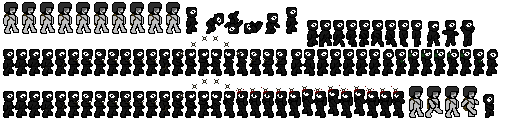
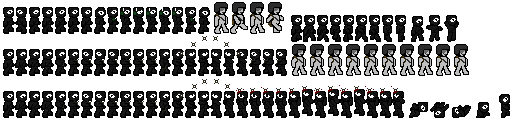
Add in new blocks, fix up wall jumping and allow wall climbing by holding W when wall jumping

Changed region(s): [[0.0, 0.0, 1.0, 0.5938], [0.7812, 0.6562, 1.0, 0.9375]]

diff --git a/core/src/com/nicholasnassar/ninja/systems/InputSystem.java b/core/src/com/nicholasnassar/ninja/systems/InputSystem.java
@@ -28,6 +28,8 @@ public class InputSystem extends IteratingSystem {
 
     private final ComponentMapper<StateComponent> stateMapper;
 
+    private final ComponentMapper<CollidableComponent> collideMapper;
+
     public InputSystem(GameScreen screen) {
         super(Family.all(PhysicsComponent.class, SpeedComponent.class, ControllableComponent.class).get());
 
@@ -46,6 +48,8 @@ public class InputSystem extends IteratingSystem {
         directionMapper = ComponentMapper.getFor(DirectionComponent.class);
 
         stateMapper = ComponentMapper.getFor(StateComponent.class);
+
+        collideMapper = ComponentMapper.getFor(CollidableComponent.class);
     }
 
     @Override
@@ -66,7 +70,11 @@ public class InputSystem extends IteratingSystem {
 
         Vector2 velocity = physics.getVelocity();
 
-        if (physics.getLockVelocityX() <= 0) {
+        CollidableComponent collide = collideMapper.get(entity);
+
+        physics.setLockVelocityX(physics.getLockVelocityX() - deltaTime);
+
+        if (!physics.isXVelocityLocked()) {
             if (Gdx.input.isKeyPressed(ControlManager.MOVE_LEFT)) {
                 velocity.x = -force;
 
@@ -82,8 +90,10 @@ public class InputSystem extends IteratingSystem {
             if (Gdx.input.isKeyPressed(ControlManager.MOVE_LEFT) && Gdx.input.isKeyPressed(ControlManager.MOVE_RIGHT)) {
                 stop = true;
             }
-        } else {
-            physics.setLockVelocityX(physics.getLockVelocityX() - deltaTime);
+        } else if (gravity != null && gravity.isGrounded()) {
+            physics.setLockVelocityX(0);
+        } else if (collide != null && collide.isOnWall()) {
+            physics.setLockVelocityX(0.1f);
         }
 
         if (!levelMapper.has(entity) && Gdx.input.isKeyJustPressed(ControlManager.THROW)) {
@@ -102,7 +112,7 @@ public class InputSystem extends IteratingSystem {
             }
         }
 
-        if (stop && (gravity == null || gravity.isGrounded()) && physics.getLockVelocityX() <= 0) {
+        if (stop && !physics.isXVelocityLocked()) {
             velocity.x = 0;
         }
 
@@ -116,15 +126,17 @@ public class InputSystem extends IteratingSystem {
         JumpComponent jump = jumpMapper.get(entity);
 
         if (gravity != null && jump != null) {
-            if (Gdx.input.isKeyJustPressed(ControlManager.JUMP) && (gravity.isGrounded() || jump.getAvailableJumps() > 0)) {
-                if (state != null && state.getState() == StateComponent.STATE_WALL_SLIDE) {
+            boolean wallSliding = state != null && state.getState() == StateComponent.STATE_WALL_SLIDE;
+
+            if (Gdx.input.isKeyJustPressed(ControlManager.JUMP) && (gravity.isGrounded() || jump.getAvailableJumps() > 0 || wallSliding)) {
+                if (wallSliding && !Gdx.input.isKeyPressed(ControlManager.MOVE_UP)) {
                     if (velocity.x != 0) {
                         if (velocity.x > 0) {
-                            velocity.x = -force * 2f;
+                            velocity.x = -force * 1.5f;
                         } else if (velocity.x < 0) {
-                            velocity.x = force * 2f;
+                            velocity.x = force * 1.5f;
                         }
-                        physics.setLockVelocityX(0.2f);
+                        physics.setLockVelocityX(Float.MAX_VALUE);
                     }
                 }
 

diff --git a/core/src/com/nicholasnassar/ninja/systems/PhysicsSystem.java b/core/src/com/nicholasnassar/ninja/systems/PhysicsSystem.java
@@ -7,7 +7,10 @@ import com.badlogic.ashley.systems.IteratingSystem;
 import com.badlogic.gdx.math.Vector2;
 import com.badlogic.gdx.math.Vector3;
 import com.nicholasnassar.ninja.Level;
-import com.nicholasnassar.ninja.components.*;
+import com.nicholasnassar.ninja.components.CollidableComponent;
+import com.nicholasnassar.ninja.components.DestroyOutsideComponent;
+import com.nicholasnassar.ninja.components.GravityComponent;
+import com.nicholasnassar.ninja.components.PhysicsComponent;
 import com.nicholasnassar.ninja.screens.GameScreen;
 
 public class PhysicsSystem extends IteratingSystem {
@@ -21,8 +24,6 @@ public class PhysicsSystem extends IteratingSystem {
 
     private final ComponentMapper<GravityComponent> gravityMapper;
 
-    private final ComponentMapper<JumpComponent> jumpMapper;
-
     private final ComponentMapper<CollidableComponent> collideMapper;
 
     private final ComponentMapper<DestroyOutsideComponent> destroyMapper;
@@ -35,8 +36,6 @@ public class PhysicsSystem extends IteratingSystem {
         physicsMapper = ComponentMapper.getFor(PhysicsComponent.class);
 
         gravityMapper = ComponentMapper.getFor(GravityComponent.class);
-
-        jumpMapper = ComponentMapper.getFor(JumpComponent.class);
 
         collideMapper = ComponentMapper.getFor(CollidableComponent.class);
 
@@ -131,16 +130,10 @@ public class PhysicsSystem extends IteratingSystem {
 
                                 velocity.x = 0;
 
+                                collide.setOnWall(true);
+
                                 if (velocity.y < 0) {
-                                    collide.setOnWall(true);
-
                                     velocity.y /= 2;
-
-                                    JumpComponent jump = jumpMapper.get(entity);
-
-                                    if (jump != null) {
-                                        jump.setAvailableJumps(jump.getExtraJumps());
-                                    }
                                 }
                             }
 

diff --git a/core/src/com/nicholasnassar/ninja/systems/StateSystem.java b/core/src/com/nicholasnassar/ninja/systems/StateSystem.java
@@ -54,7 +54,7 @@ public class StateSystem extends IteratingSystem {
 
         if (state != null) {
             if (gravity != null && !gravity.isGrounded()) {
-                if (collidable != null && collidable.isOnWall()) {
+                if (collidable != null && collidable.isOnWall() && velocity.y < 0) {
                     state.setState(StateComponent.STATE_WALL_SLIDE);
                 } else {
                     state.setState(StateComponent.STATE_IN_AIR);
@@ -62,7 +62,7 @@ public class StateSystem extends IteratingSystem {
             } else if (velocity.x == 0) {
                 state.setState(StateComponent.STATE_IDLE);
             } else {
-                if (state.getState() != StateComponent.STATE_GROUND_ROLL || state.getElapsedTime() > 0.19999999) {
+                if (state.getState() != StateComponent.STATE_GROUND_ROLL || state.getElapsedTime() > 0.16) {
                     state.setState(StateComponent.STATE_WALKING);
                 }
             }

diff --git a/core/src/com/nicholasnassar/ninja/NinjaAssetManager.java b/core/src/com/nicholasnassar/ninja/NinjaAssetManager.java
@@ -97,15 +97,7 @@ public class NinjaAssetManager {
 
         animations.put(StateComponent.STATE_IN_AIR, Array.with(new Animation(1 / 10f, spriteAnimations.get("player_in_air").split(17, 27)[0])));
 
-        TextureRegion[] split = spriteAnimations.get("player_roll").split(20, 27)[0];
-
-        TextureRegion[] newSplit = new TextureRegion[split.length - 1];
-
-        for (int i = 0; i < newSplit.length; i++) {
-            newSplit[i] = split[i];
-        }
-
-        Animation roll = new Animation(1 / 25f, newSplit);
+        Animation roll = new Animation(1 / 25f, spriteAnimations.get("player_roll").split(22, 16)[0]);
 
         animations.put(StateComponent.STATE_GROUND_ROLL, Array.with(roll));
 

diff --git a/core/src/com/nicholasnassar/ninja/screens/GameScreen.java b/core/src/com/nicholasnassar/ninja/screens/GameScreen.java
@@ -111,15 +111,12 @@ public class GameScreen extends NinjaScreen {
 
         engine = new Engine();
 
-        PhysicsSystem physics = new PhysicsSystem(this);
-        RenderSystem render = new RenderSystem(this, batch, camera);
-
         engine.addSystem(new CameraSystem(this));
-        engine.addSystem(render);
+        engine.addSystem(new RenderSystem(this, batch, camera));
         engine.addSystem(new InputSystem(this));
         engine.addSystem(new AISystem());
         engine.addSystem(new StateSystem());
-        engine.addSystem(physics);
+        engine.addSystem(new PhysicsSystem(this));
 
         spawner = new Spawner(game.getAssetManager(), engine, levelEditor);
 

diff --git a/core/src/com/nicholasnassar/ninja/components/PhysicsComponent.java b/core/src/com/nicholasnassar/ninja/components/PhysicsComponent.java
@@ -83,11 +83,19 @@ public class PhysicsComponent implements Component {
         return sizeScale;
     }
 
+    public boolean isXVelocityLocked() {
+        return lockVelocityX > 0;
+    }
+
     public float getLockVelocityX() {
         return lockVelocityX;
     }
 
     public void setLockVelocityX(float lockVelocityX) {
+        if (lockVelocityX < 0) {
+            lockVelocityX = 0;
+        }
+
         this.lockVelocityX = lockVelocityX;
     }
 }
